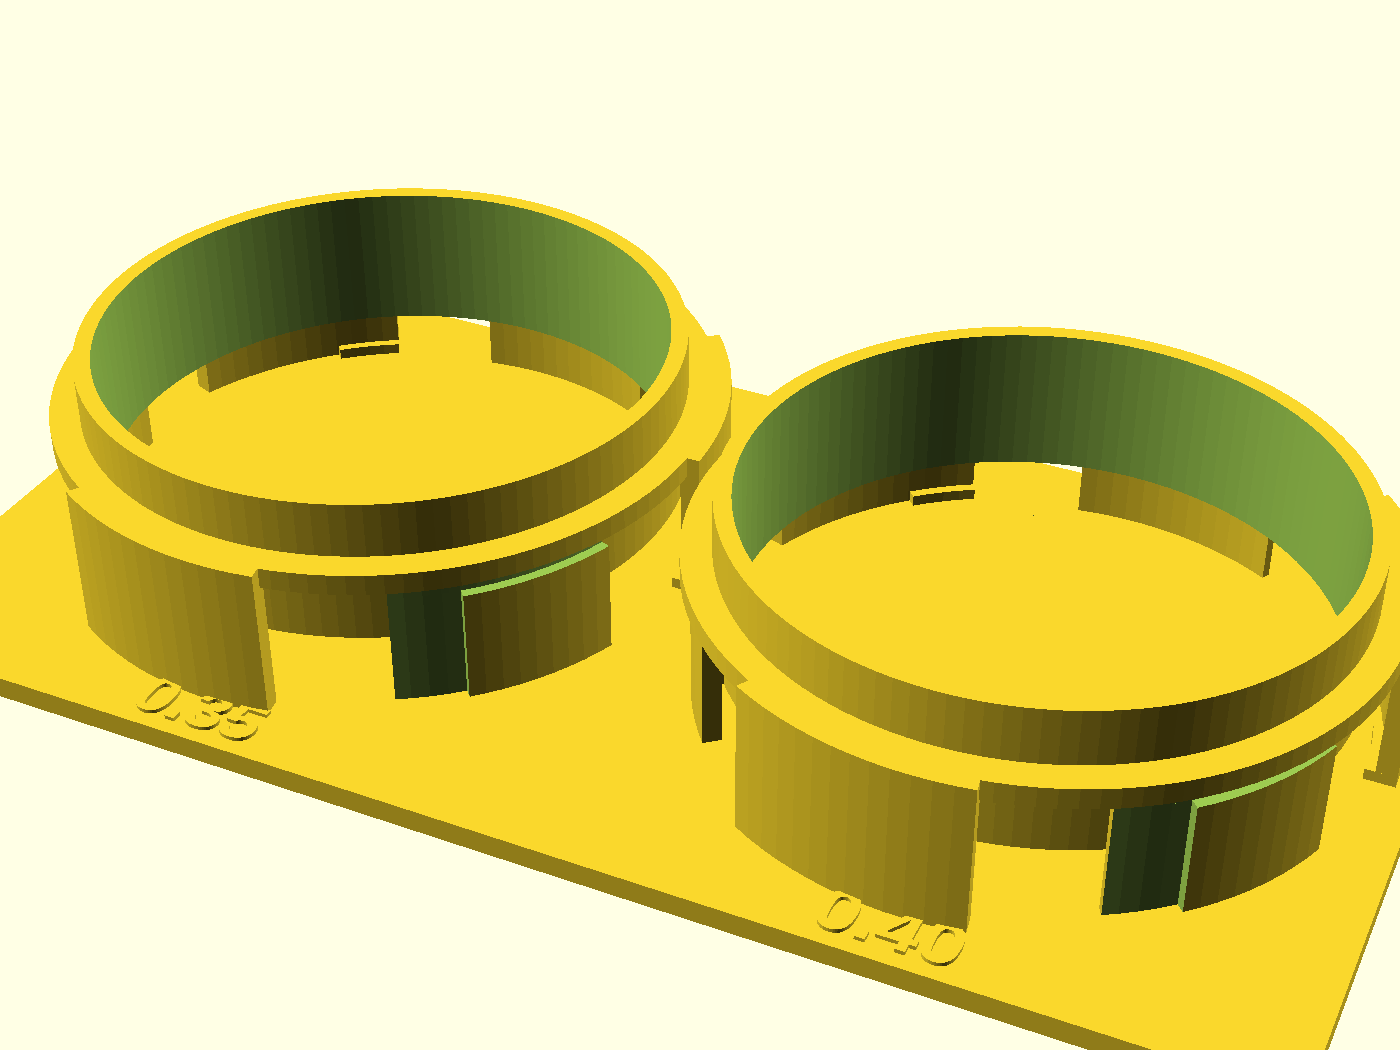
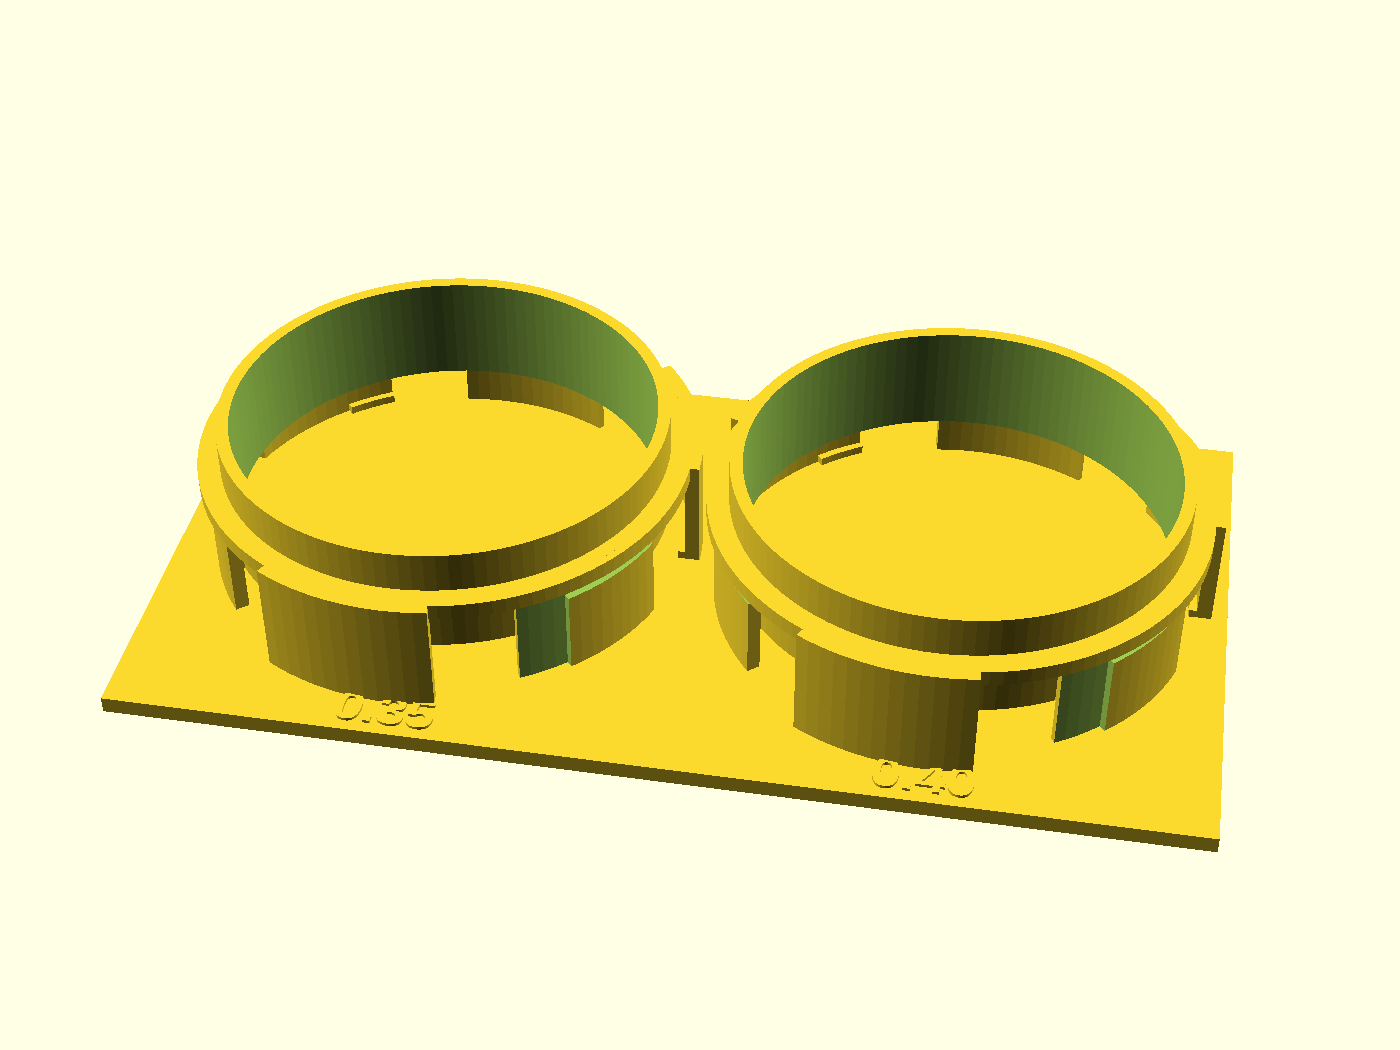
fix(nuggs-port-gauge): PM triage — reframe ladder-2; verify 0.30 on film
J6: pull ladder-2 camera to dist=500 with lower look-at and smaller yaw
so the whole plate and both labels sit in frame with margin.
D1: regenerated ladder-3 still shows relocated 0.30 on the front bottom
station (−y); frozen angle keeps it visible, no new camera line.
Charter backlog item 4 records the queued fuller cutaway (J7).

diff --git a/designs/nuggs-port-gauge/PM.md b/designs/nuggs-port-gauge/PM.md
@@ -50,6 +50,7 @@ ladder-2. Lifestyle / AI tiers: none — a calibration tool.
 1. Field-test the ladder on a real printer and log the winner.
 2. Optional physical 0.10 negative-control step if users ask.
 3. Seed a `printer.conf` recipe from a decisive field result.
+4. Fuller quarter-section cutaway shot (J7 + Drik r2): the committed cutaway reads as one shell rather than a mated pair; preview legibility only.
 
 ## Open decisions
 
